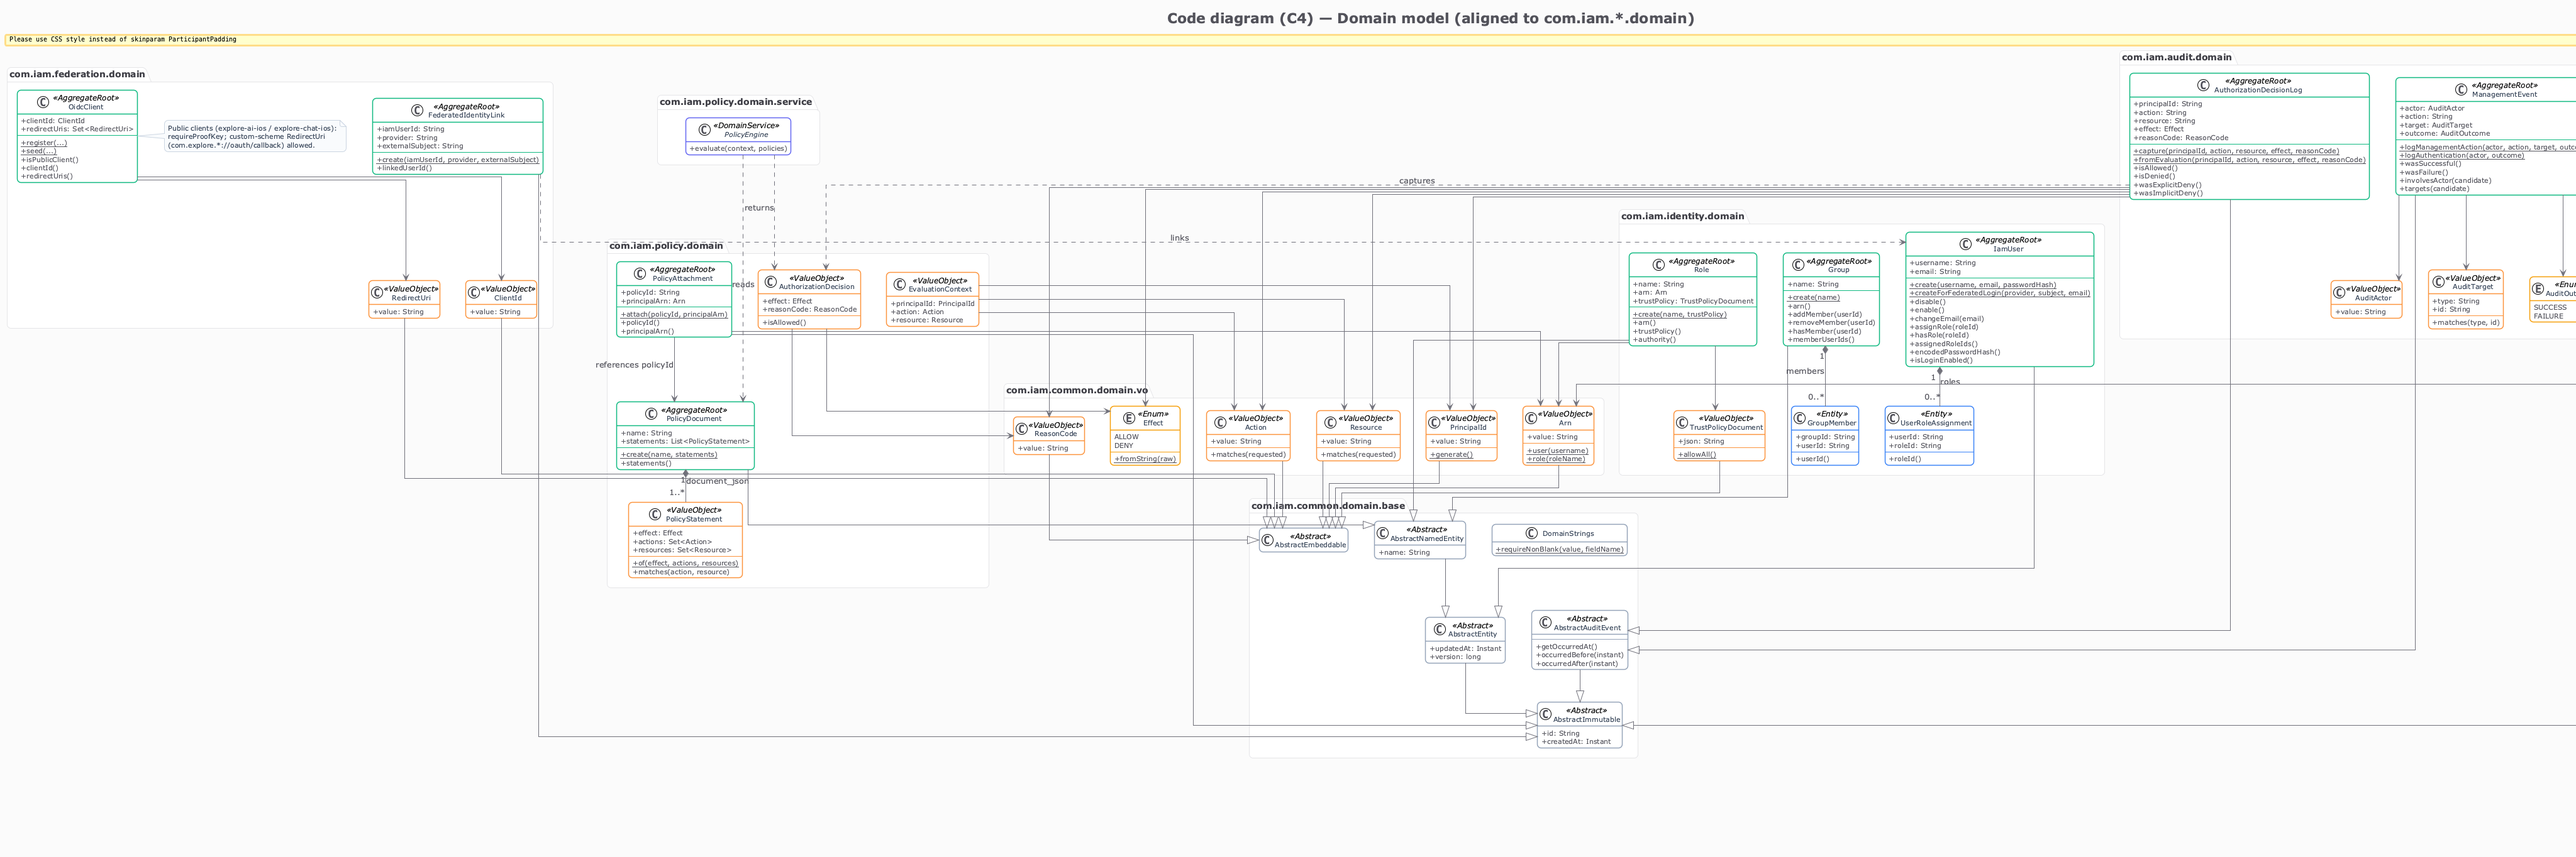
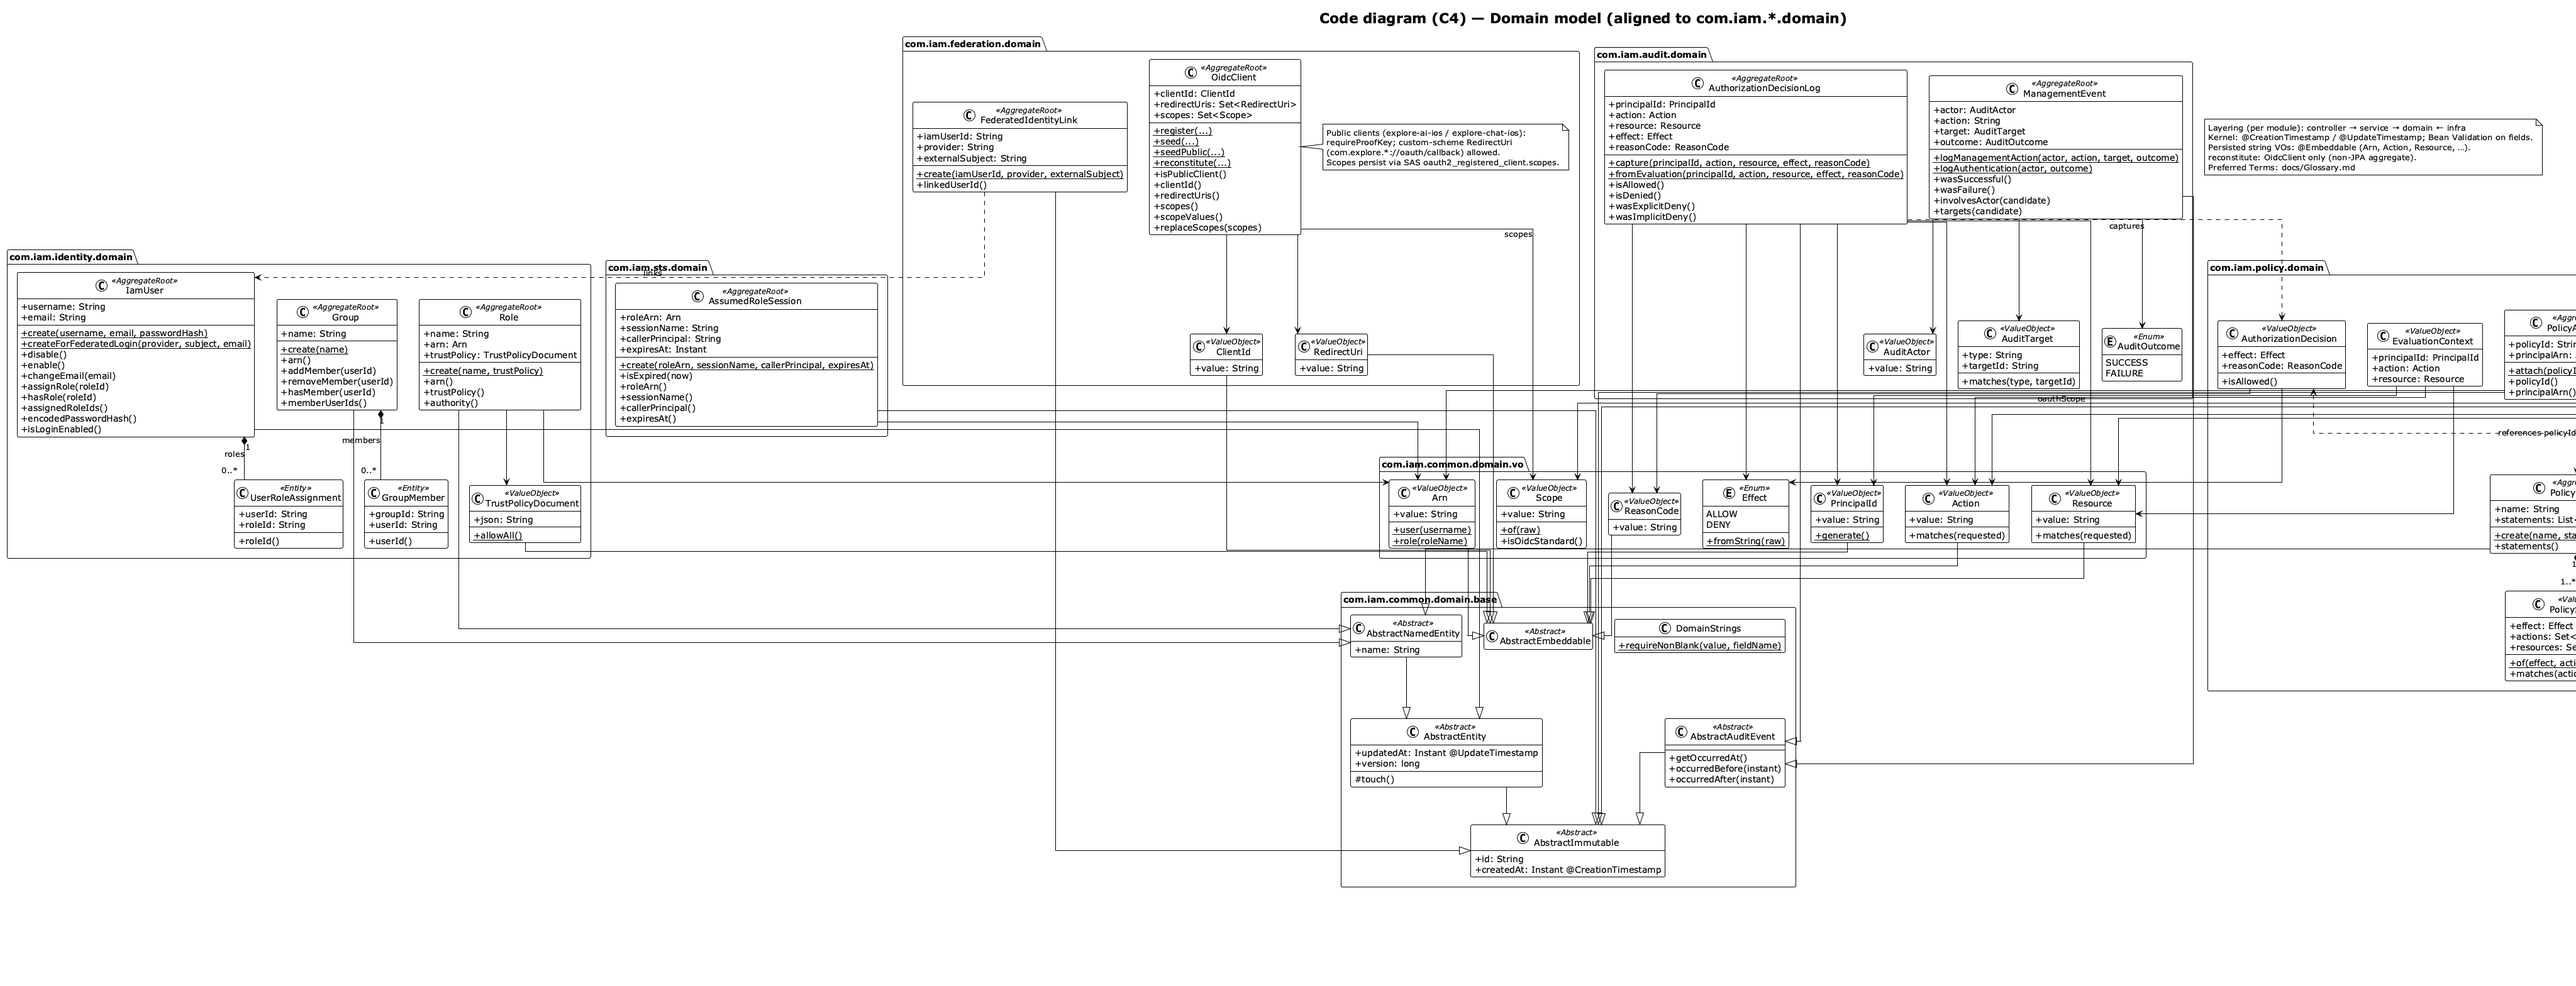
Align IAM domain model diagram with embed VOs (#90)
Update C4 code diagram for Embeddable VOs, audit kernel, and
white-on-black styling aligned with explore-chat Code diagrams.

References:

- https://c4model.com/
- https://plantuml.com/class-diagram

diff --git a/iam/docs/developer/c4-model/README.md b/iam/docs/developer/c4-model/README.md
@@ -11,7 +11,8 @@ Style standards: global [c4-model](~/.cursor/skills/scrum-team/developers/develo
 | Track | Files | Style |
 |-------|-------|-------|
 | **Structural C4** | C1–C3, Deployment | `C4_blue_new` theme (wireframe) |
-| **Domain + Dynamics** | Code domain model, `C4-Dynamic-*` | [`style-zinc.puml`](style-zinc.puml)（白底 + 彩色边框/标题，IAM 风格） |
+| **Domain model** | `C4-Code-Domain-Model.puml` | 白底黑字黑边框（对齐 explore-chat Code 图） |
+| **Dynamics** | `C4-Dynamic-*` | [`style-zinc.puml`](style-zinc.puml) 或内联白底（见各文件） |
 
 ## File set
 
@@ -25,7 +26,7 @@ Style standards: global [c4-model](~/.cursor/skills/scrum-team/developers/develo
 | `C4-Dynamic-SSOLogin.puml` | Dynamic | OIDC Authorization Code (confidential + public PKCE) |
 | `C4-Dynamic-NativePkceLogin.puml` | Dynamic | Native iOS ASWebAuthenticationSession + PKCE → RP Bearer |
 | `C4-Dynamic-PolicyEvaluation.puml` | Dynamic | AssumeRole + PolicyEngine (Deny > Allow > implicit Deny) |
-| `style-zinc.puml` | Shared | Code + Dynamic 共用样式（白底、标题色区分 stereotype） |
+| `style-zinc.puml` | Shared | Dynamic 序列图可选样式（Code 领域模型内联白底黑边框） |
 
 ## Stack & ports
 
